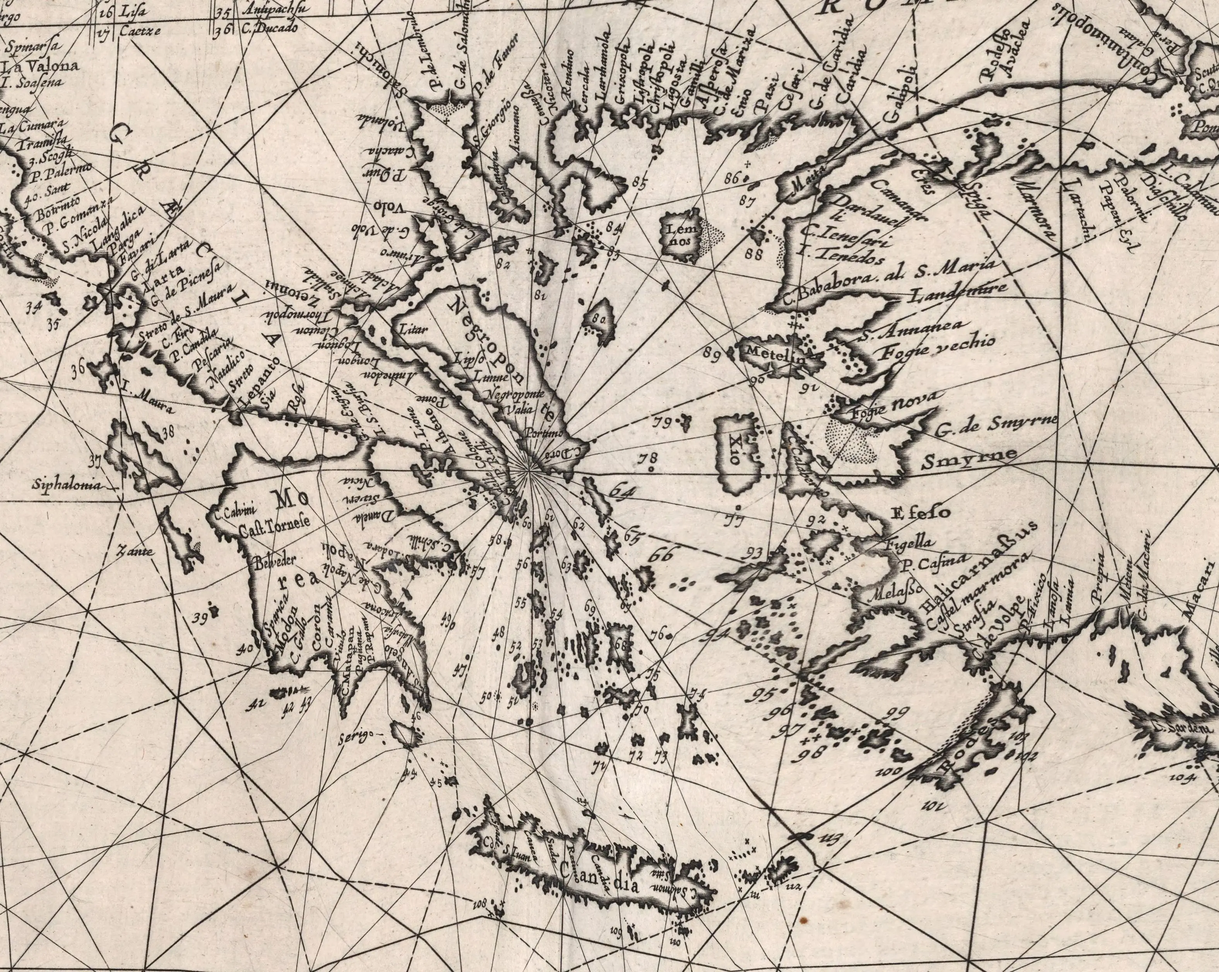
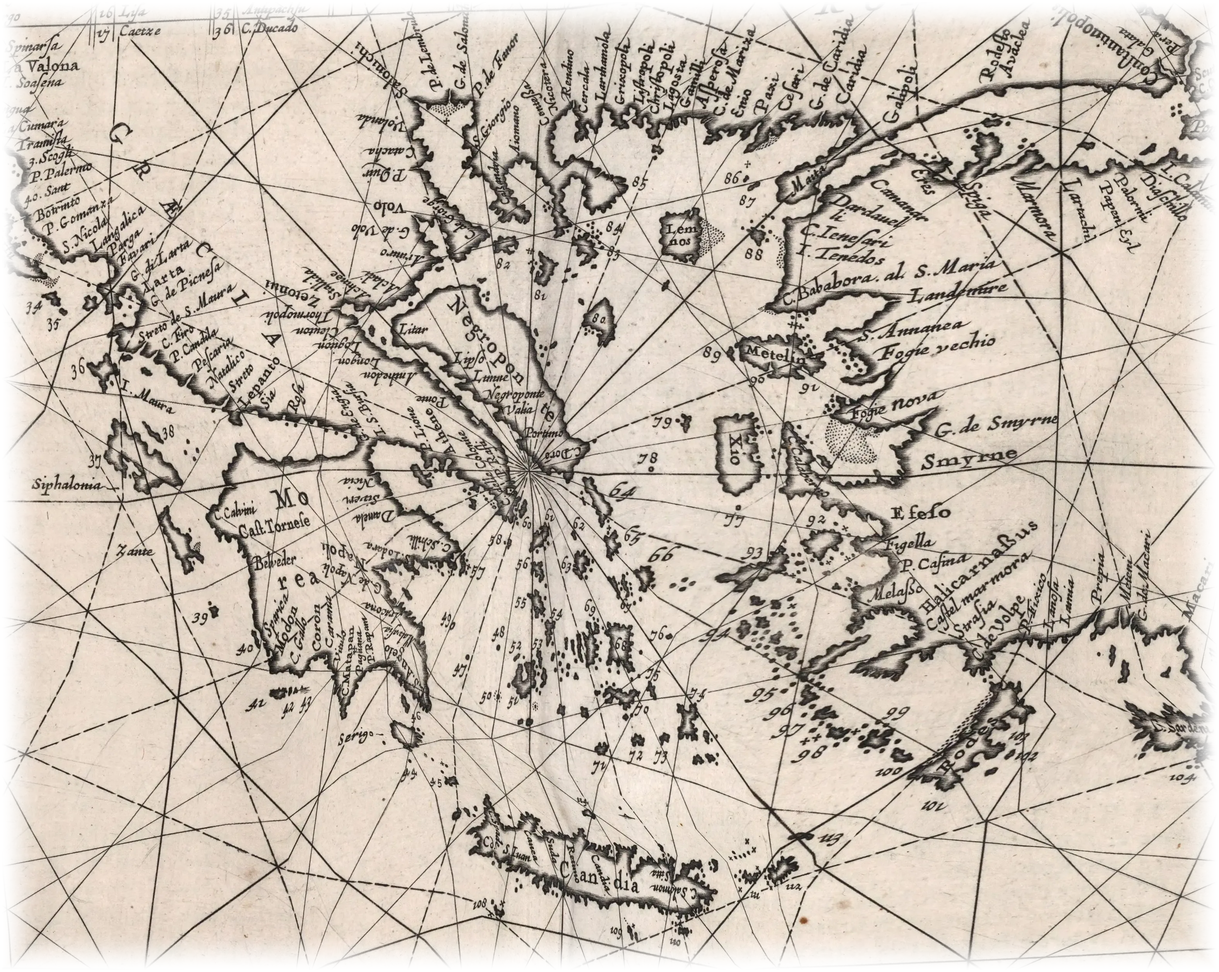
NABOU: feather historical map edges, dim modern chart outside it, outline labels
Claude-Session: https://claude.ai/code/session_01RQ1QWJ59QiXiHDV2cv1NiZ

Changed region(s): [[0.0, 0.0, 1.0, 1.0]]

diff --git a/jarvis-intelligence-chamber/nabou-command.js b/jarvis-intelligence-chamber/nabou-command.js
@@ -387,7 +387,7 @@
  const osvg=document.createElementNS(NS,'svg');osvg.setAttribute('class','nbc-oldmap');osvg.setAttribute('viewBox','0 0 '+C.W+' '+C.H);osvg.setAttribute('width',C.W);osvg.setAttribute('height',C.H);osvg.setAttribute('aria-hidden','true');
  let OLD=null,oldState=0;
  function loadOld(){if(oldState)return;oldState=1;fetch('./data/historical-maps.json',{cache:'no-cache'}).then(r=>r.ok?r.json():null).then(d=>{OLD=d?.maps?.[0]||null;if(!OLD){oldState=0;return;}
-   osvg.innerHTML=OLD.images.map((im,i)=>`<image class="${im.minScale?'det':'base'}" href="${im.href}" x="${im.x}" y="${im.y}" width="${im.w}" height="${im.h}" preserveAspectRatio="none" decoding="async"/>`).join('');
+   osvg.innerHTML=`<rect class="dim" x="-2000" y="-2000" width="${C.W+4000}" height="${C.H+4000}"/>`+OLD.images.map((im,i)=>`<image class="${im.minScale?'det':'base'}" href="${im.href}" x="${im.x}" y="${im.y}" width="${im.w}" height="${im.h}" preserveAspectRatio="none" decoding="async"/>`).join('');
    oldState=2;buildOldPanel();syncScale();}).catch(()=>{oldState=0;});}
  layer.append(csvg,osvg,rsvg);plane.append(layer);
  const syncScale=()=>{const sc=view2d().s;layer.style.setProperty('--nbc-inv',String(1/sc));layer.classList.toggle('far',sc<1.3);
@@ -455,7 +455,7 @@
   body.classList.toggle('nbc-old-on',ui.old);$('nbcOld')?.setAttribute('aria-pressed',String(ui.old));if(oldPanel)oldPanel.hidden=!ui.old;}
  let oldPanel=null;
  function buildOldPanel(){if(oldPanel||!OLD)return;const slot=$('n7MapSlot');if(!slot)return;
-  let op=0.85;try{op=+(localStorage.getItem('nbc.oldOp')||0.85);}catch(e){}osvg.style.opacity=op;
+  let op=0.7;try{op=+(localStorage.getItem('nbc.oldOp')||0.7);}catch(e){}osvg.style.opacity=op;
   const rng=h('input',{type:'range',min:'0',max:'100',value:String(Math.round(op*100)),'aria-label':'Διαφάνεια ιστορικού χάρτη'});
   rng.addEventListener('input',()=>{osvg.style.opacity=rng.value/100;try{localStorage.setItem('nbc.oldOp',String(rng.value/100));}catch(e){}});
   oldPanel=h('aside',{class:'nbc-oldpanel',hidden:!ui.old},

diff --git a/jarvis-intelligence-chamber/nabou-command.css b/jarvis-intelligence-chamber/nabou-command.css
@@ -383,3 +383,6 @@ body.nbc-old-on #nbcOld{border-color:#4fd3e6!important;color:#bff3fa!important}
 .nbc-old-c{margin:6px 0 2px;font-size:10.5px}.nbc-old-c a{color:#7fe0ef}
 .nbc-old-n{margin:0;font-size:10.5px;color:#8a9ca1}
 .nbc-oldmap.off3d{display:none!important}
+.nbc-oldmap .dim{fill:#0a1013;opacity:.5}
+body.nbc-old-on .nbc-pin span{box-shadow:0 0 0 1px #1a0f06,0 2px 6px #000c}
+body.nbc-old-on .nbc-pin .nbc-power-name{box-shadow:0 0 0 1px #1a0f06,0 2px 6px #000c}
